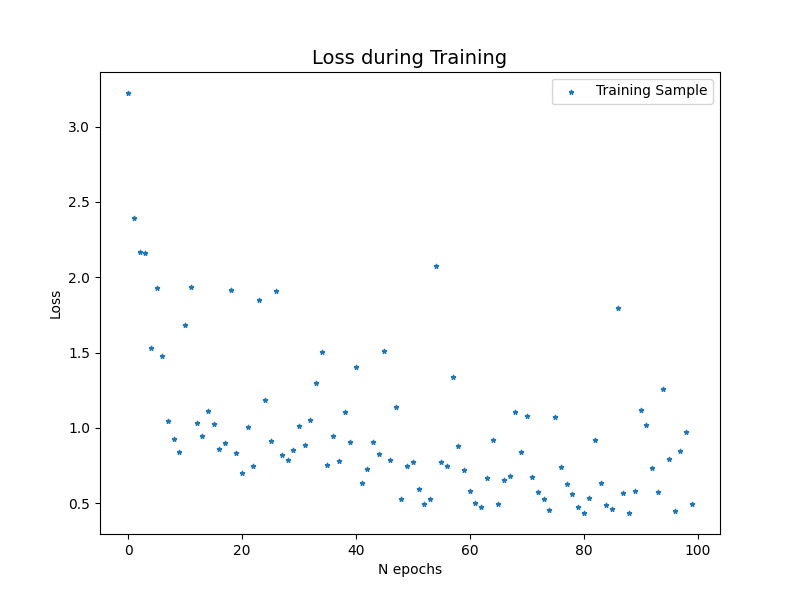
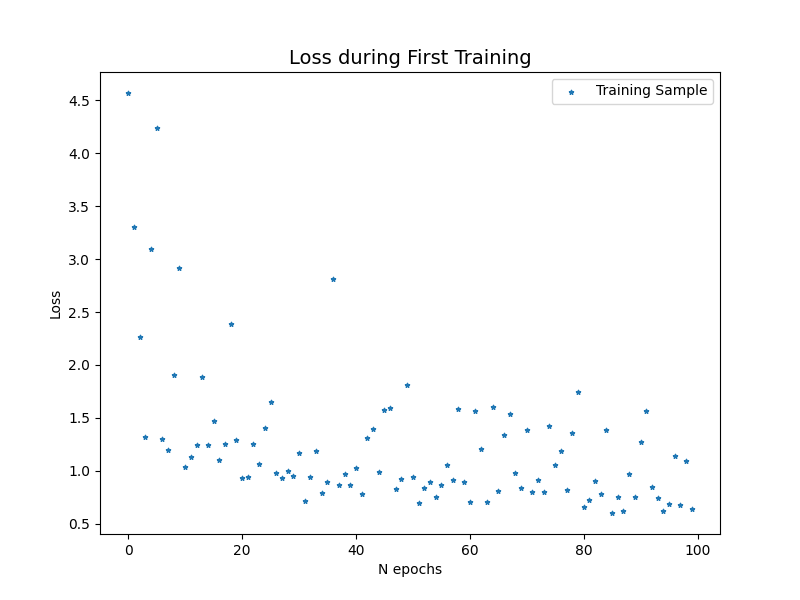
Training with sig1 insertion and percentage 0.005

diff --git a/new_train.py b/new_train.py
@@ -37,15 +37,15 @@ mjj_sample, _, _ = preprocessing.get_mass()
 #######################################################################################################
 ######################################## Data in Tensors ###########################################
 
-train_sample = torch.from_numpy(sample_scaled[:100000].values).float().to(device)
-test_sample = torch.from_numpy(sample_scaled[100000:200000].values).float().to(device)
-test_sig = torch.from_numpy(sig_scaled.values).float().to(device)
-weights = torch.from_numpy(weights_sample[:100000]).float().to(device)
-mjj = torch.from_numpy(mjj_sample[:100000]).float().to(device)
+# train_sample = torch.from_numpy(sample_scaled[:100000].values).float().to(device)
+# test_sample = torch.from_numpy(sample_scaled[100000:200000].values).float().to(device)
+# test_sig = torch.from_numpy(sig_scaled.values).float().to(device)
+# weights = torch.from_numpy(weights_sample[:100000]).float().to(device)
+# mjj = torch.from_numpy(mjj_sample[:100000]).float().to(device)
 
-trainSet = TensorDataset(train_sample, weights, mjj)
-testSet = TensorDataset(test_sample, test_sample)
-testSet_sig = TensorDataset(test_sig, test_sig)
+# trainSet = TensorDataset(train_sample, weights, mjj)
+# testSet = TensorDataset(test_sample, test_sample)
+# testSet_sig = TensorDataset(test_sig, test_sig)
 
 #######################################################################################################
 ######################################### Model Initlization ##########################################
@@ -63,9 +63,9 @@ learning_rate = 0.0002
 alpha = 100
 
 # dataloaders
-trainLoader = DataLoader(trainSet, batch_size=batch_size, shuffle=True, num_workers=4)
-testLoader = DataLoader(testSet, batch_size=batch_size, shuffle=True, num_workers=4)
-testLoader_sig = DataLoader(testSet_sig, batch_size=batch_size, shuffle=True, num_workers=4)
+# trainLoader = DataLoader(trainSet, batch_size=batch_size, shuffle=True, num_workers=4)
+# testLoader = DataLoader(testSet, batch_size=batch_size, shuffle=True, num_workers=4)
+# testLoader_sig = DataLoader(testSet_sig, batch_size=batch_size, shuffle=True, num_workers=4)
 
 # Loss function
 loss_function = nn.MSELoss()
@@ -73,45 +73,45 @@ loss_function = nn.MSELoss()
 # Optimizer
 optimizer = optim.Adam(model.parameters(), lr = learning_rate)
 
-#######################################################################################################
-##################################### First Training Analysis #########################################
+# #######################################################################################################
+# ##################################### First Training Analysis #########################################
 
-trainLoss = []
-testLoss = []
-sigLoss = []
+# trainLoss = []
+# testLoss = []
+# sigLoss = []
 
-# Run training and store validation through training
-print("Beginning First Training")
-for epoch in range(N_epochs) :
-    print(f"{epoch}")
-    print("Training")
-    trainLoss.append(train(model, trainLoader, WeightedMSELoss, optimizer, epoch, alpha))
-    print("Validating")
-    testLoss.append(test(model, testLoader, loss_function, epoch))
-    print("Testing Signal")
-    sigLoss.append(test(model, testLoader_sig, loss_function, epoch))
+# # Run training and store validation through training
+# print("Beginning First Training")
+# for epoch in range(N_epochs) :
+#     print(f"{epoch}")
+#     print("Training")
+#     trainLoss.append(train(model, trainLoader, WeightedMSELoss, optimizer, epoch, alpha))
+#     print("Validating")
+#     testLoss.append(test(model, testLoader, loss_function, epoch))
+#     print("Testing Signal")
+#     sigLoss.append(test(model, testLoader_sig, loss_function, epoch))
 
-# Save model
-torch.save(model.state_dict(), f"models/model_parameters_{signal}_{(int(pct * 1000) % 100):02d}.pth")
+# # Save model
+# torch.save(model.state_dict(), f"models/model_parameters_{signal}_{(int(pct * 1000) % 100):02d}.pth")
 
-# Create Loss per Epochs
-fig, axes = plt.subplots(figsize=(8,6))
-axes.scatter(range(N_epochs), trainLoss, marker="*", s=10, label='Training Sample')
-axes.set_xlabel('N epochs',fontsize=10)
-axes.set_ylabel('Loss',fontsize=10)
-axes.legend(loc='upper right',fontsize=10)
-axes.set_title('Loss during First Training',fontsize=14)
-fig.savefig(f"figs/training/train_loss_{signal}_{(int(pct * 1000) % 100):02d}.png")
+# # Create Loss per Epochs
+# fig, axes = plt.subplots(figsize=(8,6))
+# axes.scatter(range(N_epochs), trainLoss, marker="*", s=10, label='Training Sample')
+# axes.set_xlabel('N epochs',fontsize=10)
+# axes.set_ylabel('Loss',fontsize=10)
+# axes.legend(loc='upper right',fontsize=10)
+# axes.set_title('Loss during First Training',fontsize=14)
+# fig.savefig(f"figs/training/train_loss_{signal}_{(int(pct * 1000) % 100):02d}.png")
 
-# Create Loss per Epochs
-fig, axes = plt.subplots(figsize=(8,6))
-axes.scatter(range(N_epochs), testLoss, marker="^", s=8, label='Test Sample')
-axes.scatter(range(N_epochs), sigLoss, marker="o", s=8, label='Signal: ' + signal)
-axes.set_xlabel('N epochs',fontsize=10)
-axes.set_ylabel('Loss',fontsize=10)
-axes.legend(loc='upper right',fontsize=10)
-axes.set_title('Loss during First Evaluation',fontsize=14)
-fig.savefig(f"figs/training/eval_loss_{signal}_{(int(pct * 1000) % 100):02d}.png")
+# # Create Loss per Epochs
+# fig, axes = plt.subplots(figsize=(8,6))
+# axes.scatter(range(N_epochs), testLoss, marker="^", s=8, label='Test Sample')
+# axes.scatter(range(N_epochs), sigLoss, marker="o", s=8, label='Signal: ' + signal)
+# axes.set_xlabel('N epochs',fontsize=10)
+# axes.set_ylabel('Loss',fontsize=10)
+# axes.legend(loc='upper right',fontsize=10)
+# axes.set_title('Loss during First Evaluation',fontsize=14)
+# fig.savefig(f"figs/training/eval_loss_{signal}_{(int(pct * 1000) % 100):02d}.png")
 
 #######################################################################################################
 ##################################### Second Training Analysis ########################################
@@ -119,12 +119,12 @@ fig.savefig(f"figs/training/eval_loss_{signal}_{(int(pct * 1000) % 100):02d}.png
 ########################################### Data in Tensors ###########################################
 
 train_sample = torch.from_numpy(sample_scaled[200000:300000].values).float().to(device)
-test_sample = torch.from_numpy(sample_scaled[400000:400000].values).float().to(device)
+test_sample = torch.from_numpy(sample_scaled[300000:400000].values).float().to(device)
 test_sig = torch.from_numpy(sig_scaled.values).float().to(device)
 mjj = torch.from_numpy(mjj_sample[200000:300000]).float().to(device)
 
 ######################################### Weights determination #######################################
-
+model.load_state_dict(torch.load(f"models/model_parameters_{signal}_{(int(pct * 1000) % 100):02d}.pth", map_location=device))
 model.eval()
 
 # Predictions
@@ -133,8 +133,7 @@ with torch.no_grad(): # no need to compute gradients here
 
 loss_sample = pd.DataFrame(loss(train_sample, predict_sample).numpy(), columns=preprocessing.selection).mean(axis=1)
 weights = 1 / (1 + loss_sample)
-weights = torch.from_numpy(weights).float().to(device)
-
+weights = torch.from_numpy(weights.to_numpy()).float().to(device)
 
 trainSet = TensorDataset(train_sample, weights, mjj)
 testSet = TensorDataset(test_sample, test_sample)

diff --git a/train.py b/train.py
@@ -60,9 +60,9 @@ learning_rate = 0.0002
 alpha = 50
 
 # dataloaders
-trainLoader = DataLoader(trainSet, batch_size=batch_size, shuffle=True, num_workers=4)
-testLoader = DataLoader(testSet, batch_size=batch_size, shuffle=True, num_workers=4)
-testLoader_sig = DataLoader(testSet_sig, batch_size=batch_size, shuffle=True, num_workers=4)
+trainLoader = DataLoader(trainSet, batch_size=batch_size, shuffle=True, num_workers=0)
+testLoader = DataLoader(testSet, batch_size=batch_size, shuffle=True, num_workers=0)
+testLoader_sig = DataLoader(testSet_sig, batch_size=batch_size, shuffle=True, num_workers=0)
 
 # Loss function
 loss_function = nn.MSELoss()
